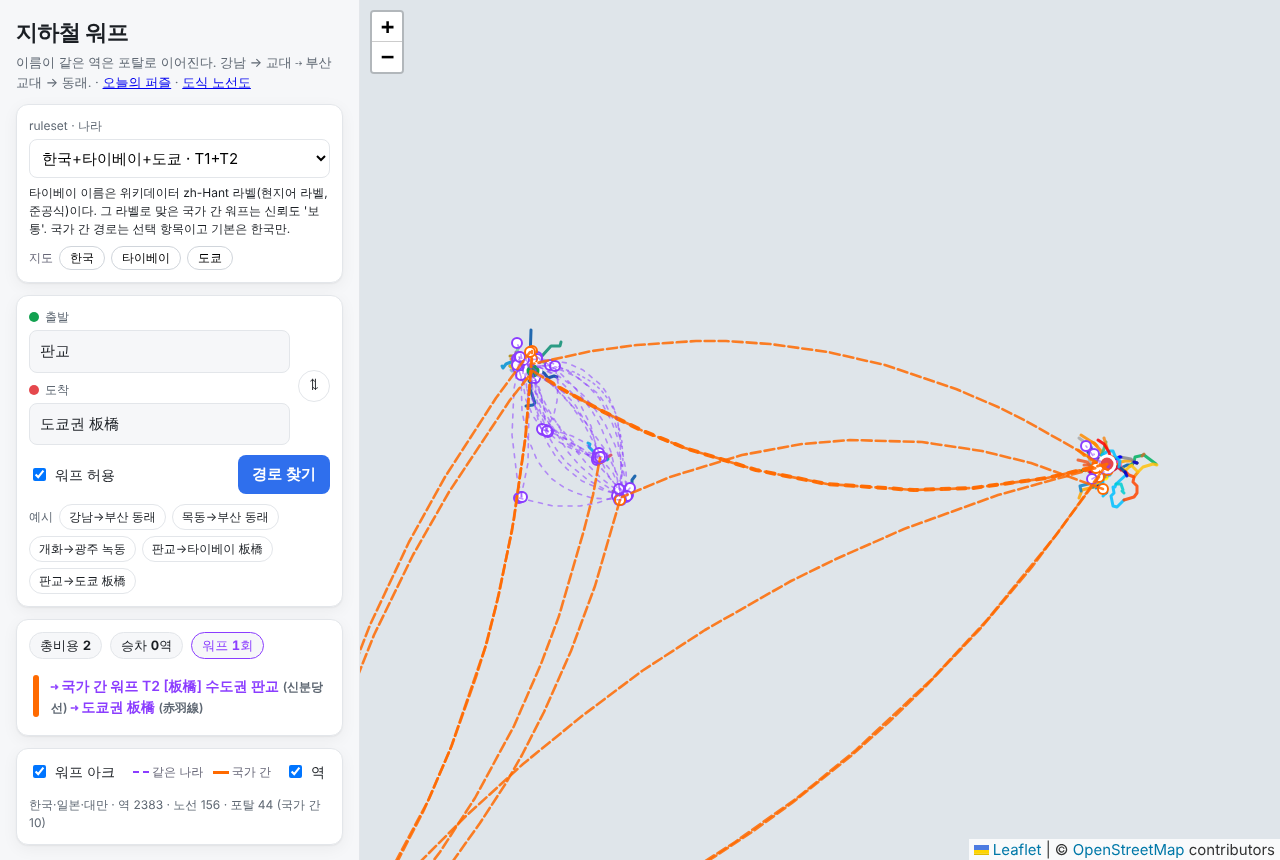
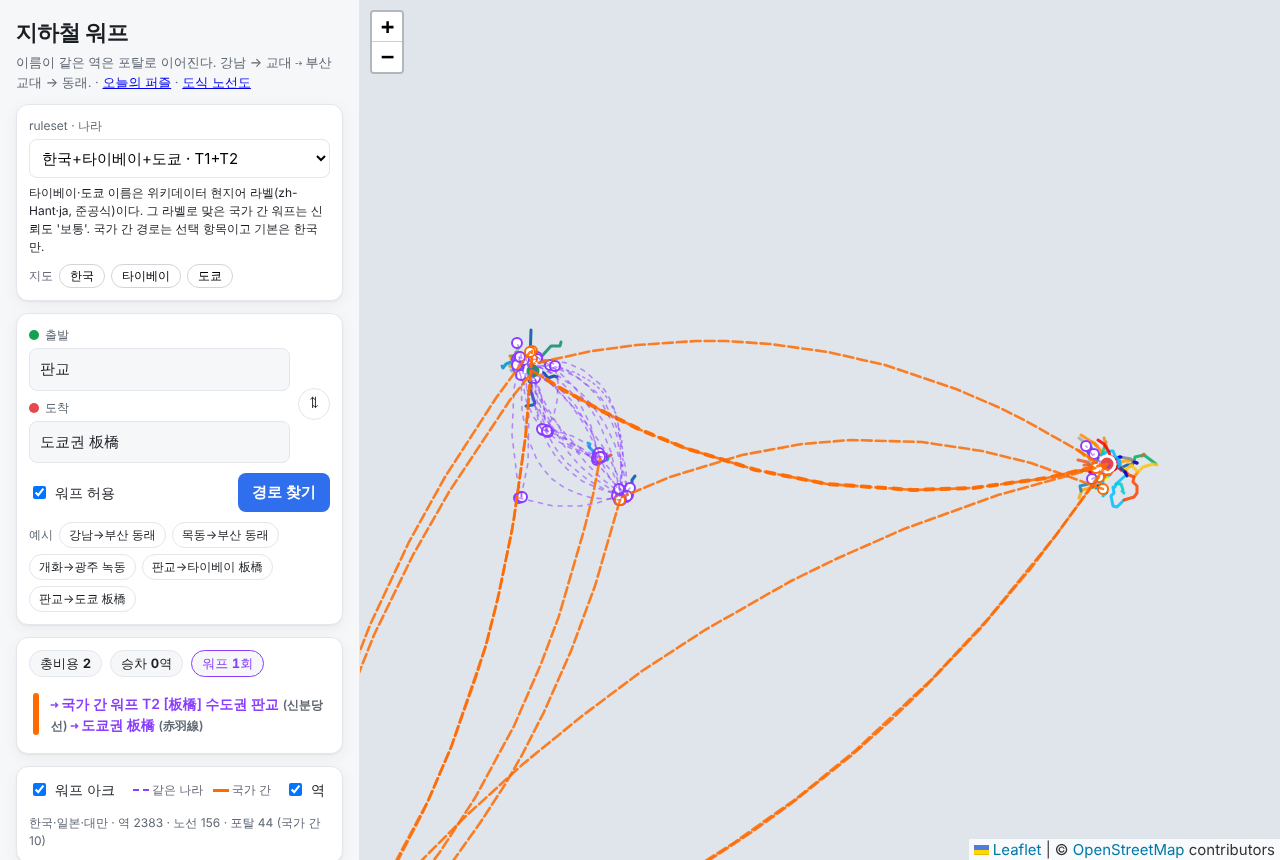
T3: 도쿄 ruleset 선택 시 안내 문구에 일본 ja 라벨 언급
Claude-Session: https://claude.ai/code/session_014nRsJXdFKhwLd5bbuZYLW7

Changed region(s): [[0.0, 0.2116, 0.2812, 0.9674]]

diff --git a/web/app.js b/web/app.js
@@ -125,7 +125,9 @@ async function load(key, { fit = false } = {}) {
   $("station-list").innerHTML = labels.map((l) => `<option value="${esc(l)}"></option>`).join("");
   $("ruleset-select").value = rsKey;
   $("ruleset-note").textContent = def.note === "현지어 라벨 포함" || def.note === "T3b 포함"
-    ? "타이베이 이름은 위키데이터 zh-Hant 라벨(현지어 라벨, 준공식)이다. 그 라벨로 맞은 국가 간 워프는 신뢰도 '보통'. 국가 간 경로는 선택 항목이고 기본은 한국만."
+    ? ((data.meta.countries || []).includes("JP")
+      ? "타이베이·도쿄 이름은 위키데이터 현지어 라벨(zh-Hant·ja, 준공식)이다. 그 라벨로 맞은 국가 간 워프는 신뢰도 '보통'. 국가 간 경로는 선택 항목이고 기본은 한국만."
+      : "타이베이 이름은 위키데이터 zh-Hant 라벨(현지어 라벨, 준공식)이다. 그 라벨로 맞은 국가 간 워프는 신뢰도 '보통'. 국가 간 경로는 선택 항목이고 기본은 한국만.")
     : (data.meta.countries || []).length > 1 && nX === 0 ? "공식명만 쓰면 타이베이와 이어지는 포탈이 없다 (타이베이 공식명 미확보)." : "";
   drawLines();
   drawWarps();
